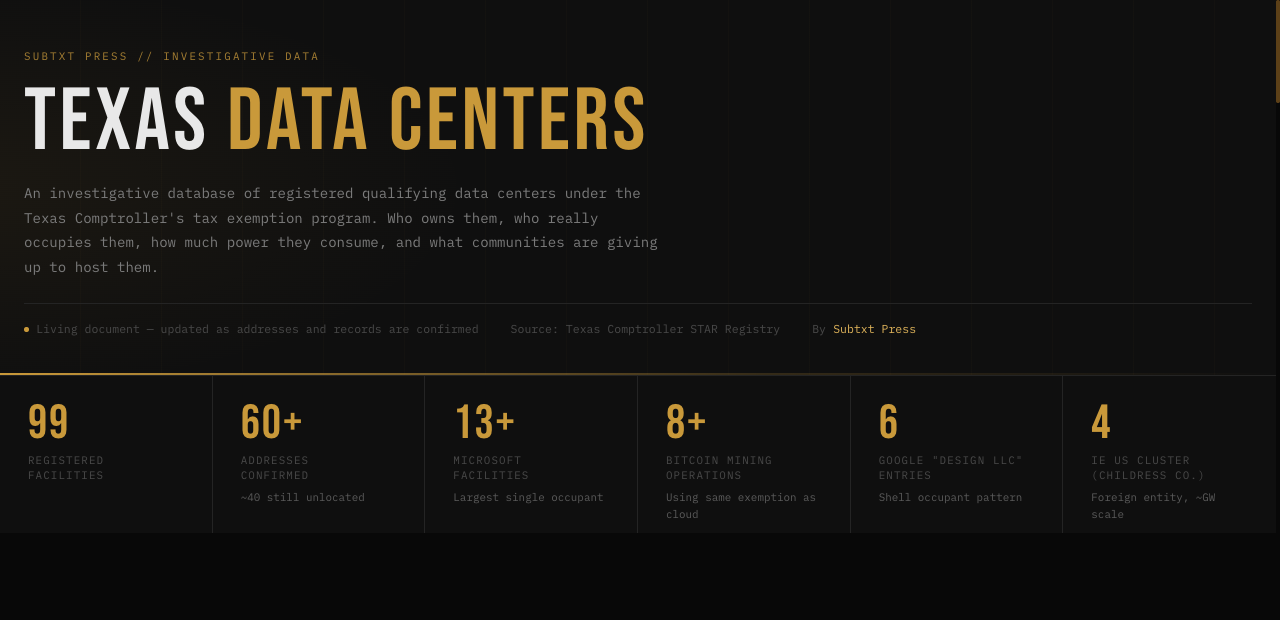
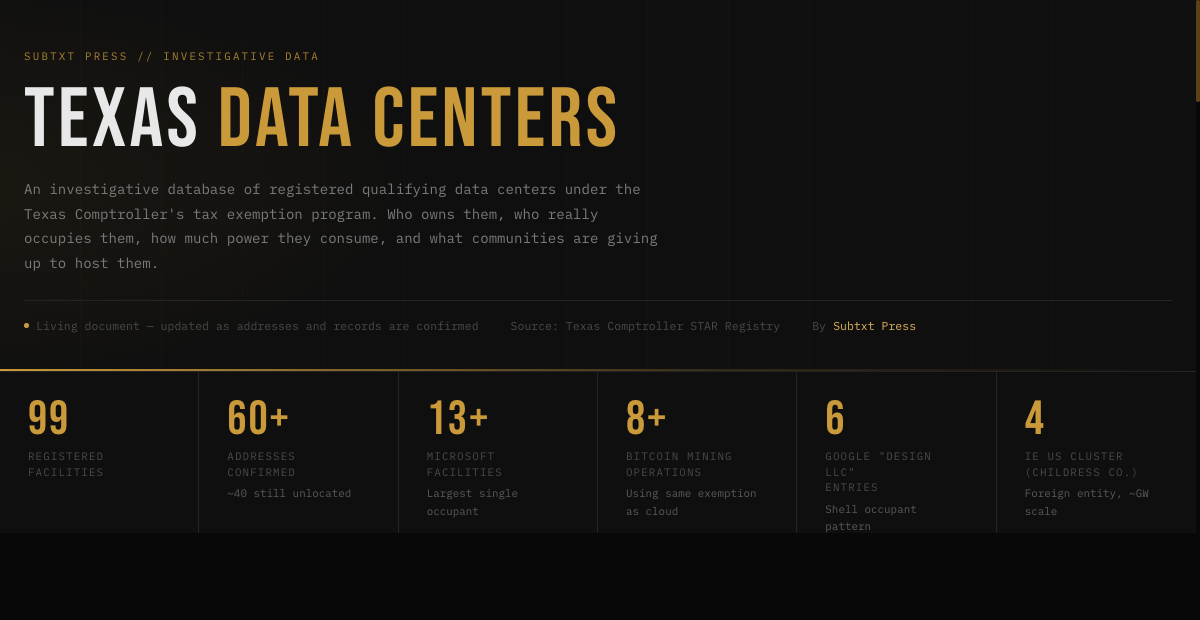
Fix preview image dimensions for Twitter card
- Retake at 1200x620 (proper 1.93:1 OG ratio)
- Full stat bar visible, clean crop
- Update og:image:width to 1200

diff --git a/artifacts/tx-data-centers/tx-data-centers.html b/artifacts/tx-data-centers/tx-data-centers.html
@@ -16,7 +16,7 @@
   <meta property="og:type" content="website"> 
   <meta property="og:url" content="https://subtxtpress.github.io/home/artifacts/tx-data-centers/tx-data-centers.html”>
   <meta property="og:image" content="https://subtxtpress.github.io/home/artifacts/tx-data-centers/preview.png”>
-  <meta property="og:image:width" content="1280">
+  <meta property="og:image:width" content="1200">
   <meta property="og:image:height" content="620"> 
   <meta property="og:site_name" content="Subtxt Press">
   
